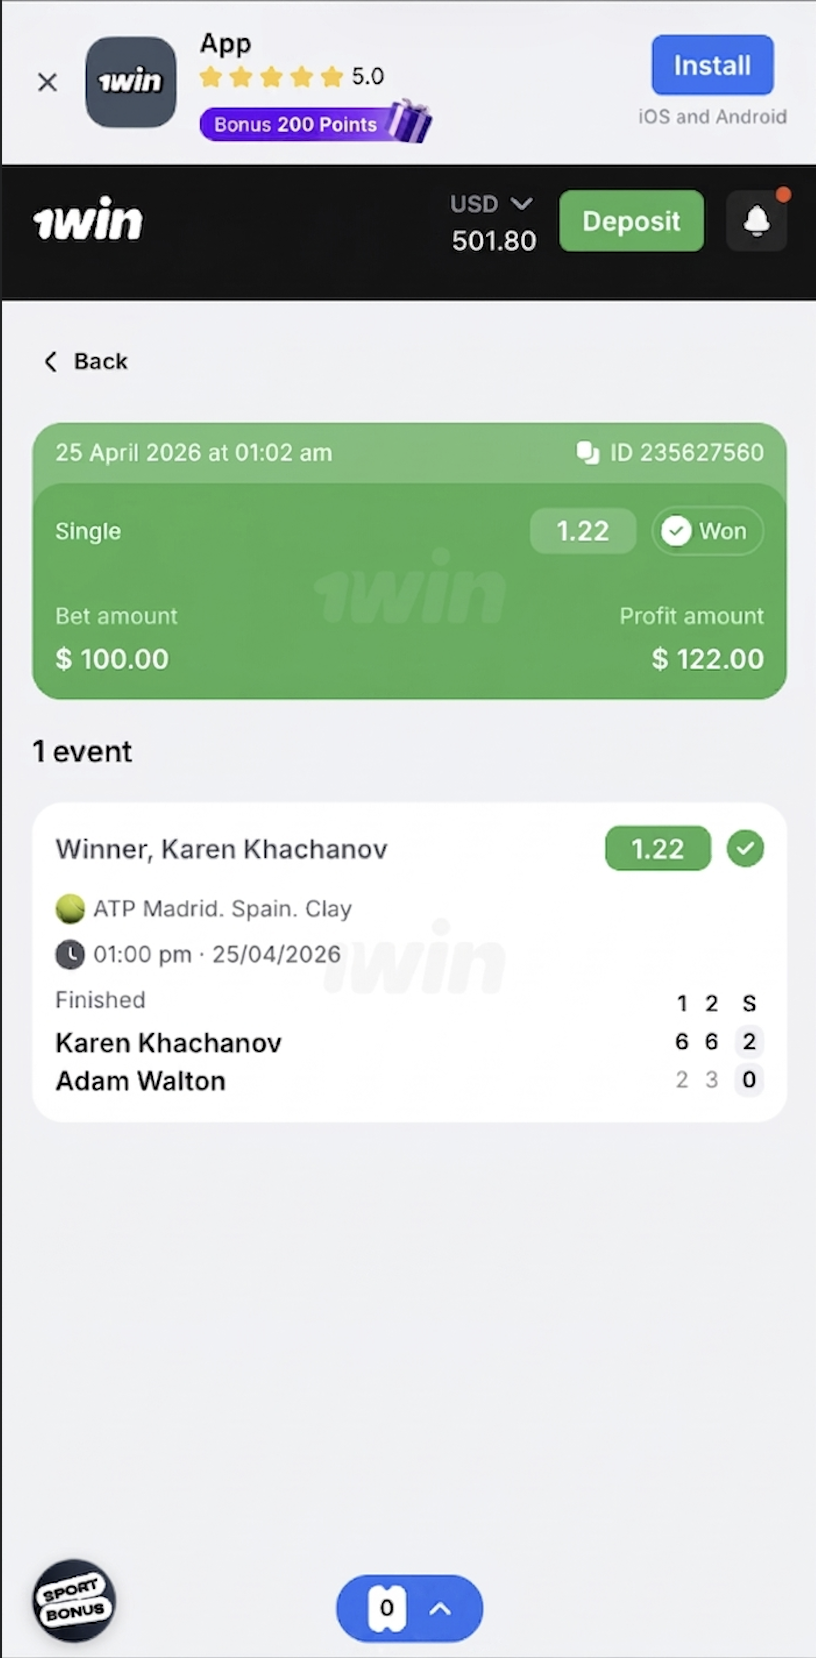
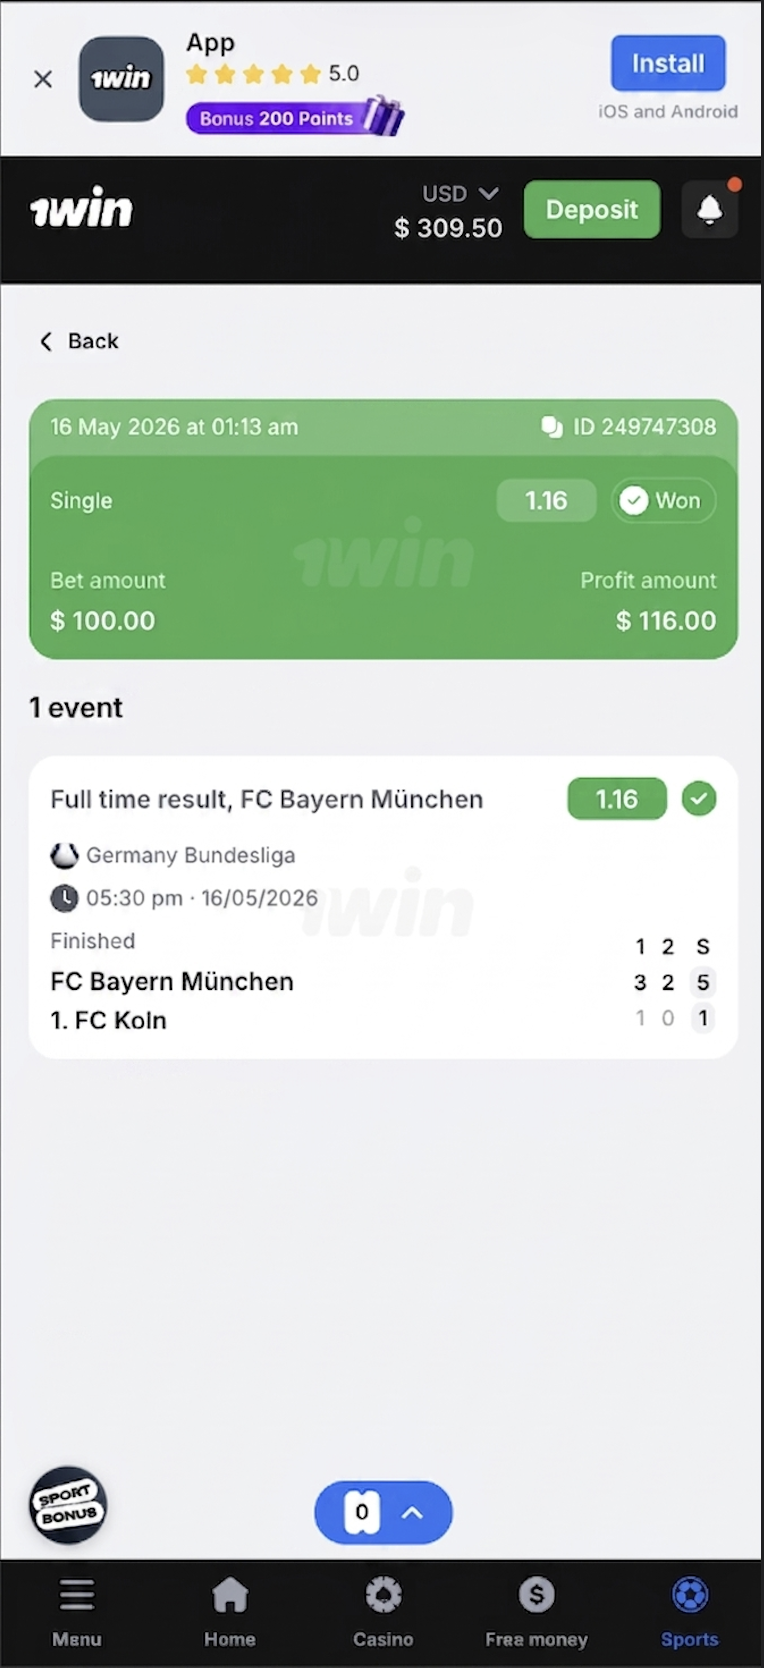
update

diff --git a/fortunobet/FortunoBetBot.py b/fortunobet/FortunoBetBot.py
@@ -42,26 +42,26 @@ scheduler = BlockingScheduler()
 # 22:00 — Final Bonus (HYPE)
 
 posts =[
-{"date":"2026-05-11","time":"12:00","content":"🎾 <b>$100 → $126.00. Felix Auger-Aliassime ✅</b>\n\nATP Madrid. Spain. Clay. Odds 1.26. 🇪🇸\n$26 profit. Auger-Aliassime 6-3, 6-4. Dominated. 💸\n\nRanked higher. Recent form strong. Data was clear.\nMy guy — pure analysis, not luck. They followed. Already paid. ✅\n\nYou dey watch while others dey collect? STOP WATCHING. 🔥\n\nDeposit ₦3,000 → play with ₦18,000\n🔑 Code: <code>fortunobet</code>\n👉 <b>Join NOW:</b> https://1wzpdo.life/v3/aggressive-casino?p=zusb","images":["win1.png"]},
-{"date":"2026-05-11","time":"23:55","content":"💸 <b>₦73,000 PalmPay — Arrived instant ✅</b>\n\nMonday 11 May. 05:00 AM. Real phone notification. 💚\n₦73,000 (~$50). ID: PPW-[phone redacted]. Same minute.\n\nBryan tested small first. Then scaled up big.\nNo delay. No wahala. My guy — just pure money. 💸\n\n1WIN pays. PalmPay confirms. Every single time. ✅\nYou can't withdraw what you don't deposit. ACT NOW. 🔥\n\nDeposit ₦5,000 → play with ₦30,000\n🔑 Code: <code>fortunobet</code>\n👉 <b>Start NOW:</b> https://1wzpdo.life/v3/aggressive-casino?p=zusb","images":["withdrow1.png"]},
+{"date":"2026-05-18","time":"16:00","content":"⚽ <b>$100 → $116.00. FC Bayern München ✅</b>\n\nGermany Bundesliga. Odds 1.16. 🇩🇪\n$16 profit. Bayern vs FC Koln. Completely dominant. 💸\n\nBayern top of league. Form was obvious. Easy read.\nMy guy — pure analysis, not luck. Already paid. ✅\n\nYou dey watch while others dey collect? STOP WATCHING. 🔥\n\nDeposit ₦3,000 → play with ₦18,000\n🔑 Code: <code>fortunobet</code>\n👉 <b>Join NOW:</b> https://1wzpdo.life/v3/aggressive-casino?p=zusb","images":["win3.png"]},
+{"date":"2026-05-18","time":"23:55","content":"💸 <b>₦150,000 PalmPay — Arrived instant ✅</b>\n\nMonday 18 May. 05:12 AM. Real phone notification. 💚\n₦150,000 (~$100). ID: PPW-[phone redacted]. Same minute.\n\nBryan tested small first. Then scaled up big.\nNo delay. No wahala. My guy — just pure money. 💸\n\n1WIN pays. PalmPay confirms. Every single time. ✅\n\nYou can't withdraw what you don't deposit. 🔥\n\nDeposit ₦5,000 → play with ₦30,000\n🔑 Code: <code>fortunobet</code>\n👉 <b>Start NOW:</b> https://1wzpdo.life/v3/aggressive-casino?p=zusb","images":["withdrow.png"]},
 
-{"date":"2026-05-12","time":"16:00","content":"💡 <b>How to withdraw to PalmPay — step by step</b>\n\nMy guy, here is exactly how money arrives in 3-5 minutes.\n\nStep 1: Go to 1WIN wallet. Click Withdraw.\nStep 2: Select PalmPay. Enter your number.\nStep 3: Enter amount. Confirm payment.\nStep 4: Check PalmPay. Money arrives instant. 💸\n\nChale — test small first. Smart bettors don't rush. 🙏\nScared people watch. Smart people ACT NOW. 🔥\n\nDeposit ₦3,000 → play with ₦18,000\n🔑 Code: <code>fortunobet</code>\n👉 <b>Start here:</b> https://1wzpdo.life/v3/aggressive-casino?p=zusb","images":["EDUCATIONPOST.png"]},
-# {"date":"2026-05-12","time":"23:55","content":"🌐 <b>FortunoBet.com — Where Smart Bettors Win!</b>\n\n1WIN. Sports. Casino. Live games. All partners. 💰\nData-based. Transparent. Real results every week. ✅\n\n₦73,000 paid Monday. Real PalmPay proof. Not story.\nChale — join the winning community. Smart bettors here.\n\nThey don enter already. You still dey outside?? 🔥\n\nDeposit ₦10,000 → play with ₦60,000\n🔑 Code: <code>fortunobet</code>\n👉 <b>Join community:</b> https://fortunobet.com\n👉 <b>Start here:</b> https://1wzpdo.life/v3/aggressive-casino?p=zusb","images":["FortunoBet.png"]},
+{"date":"2026-05-19","time":"16:00","content":"💡 <b>How to use your 600% bonus correctly</b>\n\nMy guy, most people waste their bonus. Here is how smart bettors use it.\n\nStep 1: Register FREE → code FORTUNOBET\nStep 2: Deposit ₦3,000 → get ₦18,000 to play with\nStep 3: Place small bets only. Don't rush. 🙏\nStep 4: Withdraw profits to PalmPay. Same day. 💸\n\nChale — test small first. Smart bettors don't rush.\nFollow for more → FortunoBet.com\n\nDeposit ₦3,000 → play with ₦18,000\n🔑 Code: <code>fortunobet</code>\n👉 <b>Start here:</b> https://1wzpdo.life/v3/aggressive-casino?p=zusb","images":["bonus2.jpeg"]},
+{"date":"2026-05-19","time":"23:55","content":"🌐 <b>FortunoBet.com — Where Smart Bettors Win!</b>\n\n1WIN. Sports. Casino. Live games. All partners. 💰\nData-based. Transparent. Real results every week. ✅\n\n₦150,000 paid Monday. Real PalmPay proof. Not story.\nChale — join the winning community. Smart bettors here.\n\nThey don enter already. You still dey outside?? 🔥\n\nDeposit ₦10,000 → play with ₦60,000\n🔑 Code: <code>fortunobet</code>\n👉 <b>Join community:</b> https://fortunobet.com\n👉 <b>Start here:</b> https://1wzpdo.life/v3/aggressive-casino?p=zusb","images":["bonus7.jpeg"]},
 
-{"date":"2026-05-13","time":"12:00","content":"⚽ <b>$80 → $152.80. Manchester United ✅</b>\n\nEngland Premier League. Odds 1.91. 🏴\n$72.80 profit. Man United vs Brentford. Dominant. 💸\n\nMan United strong home form. Data was clear. Easy read.\nMon ✅ Tue ✅ Wed ✅ Pattern is real. No luck involved.\n\nSmart players follow. Scared ones watch forever. 🔥\n\nDeposit ₦5,000 → play with ₦30,000\n🔑 Code: <code>fortunobet</code>\n👉 <b>Join NOW:</b> https://1wzpdo.life/v3/aggressive-casino?p=zusb","images":["win2.png"]},
-{"date":"2026-05-13","time":"23:55","content":"⚠️ <b>600% Bonus — EXPIRES TONIGHT! ❌</b>\n\nRegistered Monday? Expires Wednesday 11:59 PM. NOW.\nRegistered Tuesday? Expires Thursday 11:59 PM. ⏰\n\n600% NOT lifetime. Gone in hours. Not days. HOURS.\nChale — after deadline: ❌ Gone forever. No second chance.\n\nNo dulling. Deposit NOW or lose it forever. 🔥\n\nDeposit ₦5,000 → play with ₦35,000\n🔑 Code: <code>fortunobet</code>\n👉 <b>NOW:</b> https://1wzpdo.life/v3/aggressive-casino?p=zusb","images":["casion1.jpeg"]},
+{"date":"2026-05-20","time":"12:00","content":"🎾 <b>$150 → $193.50. Barrientos/Behar ✅</b>\n\nATP Challenger Doubles. Valencia. Spain. Clay. Odds 1.29. 🇪🇸\n$43.50 profit. Barrientos/Behar won 6-0, 6-7, 6-1. 💸\n\nStronger pair. H2H record was clear. Pure analysis.\nMon ✅ Tue ✅ Wed ✅ Pattern is real, my guy.\n\nSmart players follow. Scared ones watch forever. 🔥\n\nDeposit ₦5,000 → play with ₦30,000\n🔑 Code: <code>fortunobet</code>\n👉 <b>Join NOW:</b> https://1wzpdo.life/v3/aggressive-casino?p=zusb","images":["win2.png"]},
+{"date":"2026-05-20","time":"23:55","content":"⚠️ <b>600% Bonus — EXPIRES TONIGHT! ❌</b>\n\nRegistered Monday? Expires Wednesday 11:59 PM. NOW.\nRegistered Tuesday? Expires Thursday 11:59 PM. ⏰\n\n600% NOT lifetime. Gone in hours. Not days. HOURS.\nChale — after deadline: ❌ Gone forever. No second chance.\n\nNo dulling. Deposit NOW or lose it forever. 🔥\n\nDeposit ₦5,000 → play with ₦35,000\n🔑 Code: <code>fortunobet</code>\n👉 <b>NOW:</b> https://1wzpdo.life/v3/aggressive-casino?p=zusb","images":["bonus1.jpeg"]},
 
-{"date":"2026-05-14","time":"16:00","content":"📊 <b>Why FortunoBet community wins more than solo bettors</b>\n\nChale, solo bettors lose because they guess alone.\nFortunoBet community does it different. 💡\n\n✅ Expert picks shared daily — no guessing\n✅ Real withdrawal proofs every week — no fake\n✅ Thousands winning together — not alone\n\nMy guy — join the system, not just a bet.\nStill betting solo? No dulling — move NOW. 🔥\n\nDeposit ₦3,000 → play with ₦18,000\n🔑 Code: <code>fortunobet</code>\n👉 <b>Join us:</b> https://1wzpdo.life/v3/aggressive-casino?p=zusb","images":["AUTHORITYPOST.png"]},
-{"date":"2026-05-14","time":"23:55","content":"💚 <b>₦3,000 test → ₦9,100 withdrawal ✅</b>\n\nReal story. This week. Tunde, Lagos.\n\nDeposited ₦3,000 Monday — just to test the system.\nBet Premier League Tuesday. Form was obvious. Won ₦6,100.\nWithdrew ₦9,100 Thursday. PalmPay. 4 minutes. 💸\n\n\"I tested small first. Chale — now I trust 1WIN.\" 🔥\nIf Tunde can do it — my guy, you can too. ACT NOW.\n\nDeposit ₦3,000 → play with ₦18,000\n🔑 Code: <code>fortunobet</code>\n👉 <b>Test it:</b> https://1wzpdo.life/v3/aggressive-casino?p=zusb","images":["SUCCESSSTORY.png"]},
+{"date":"2026-05-21","time":"16:00","content":"📊 <b>3 mistakes Nigerian bettors make every week</b>\n\nChale, I see this every week. Don't be this person.\n\n❌ Mistake 1: Betting too much on one match — no bankroll control\n❌ Mistake 2: Following random channels — no real analysis\n❌ Mistake 3: Chasing losses — emotion beats data every time\n\nFortunoBet community does it different:\n✅ We test small. We use data. We withdraw consistently.\n\nMy guy — join the system, not just a bet. 🔥\n\n👉 <b>See full system:</b> https://fortunobet.com\n👉 <b>Start here:</b> https://1wzpdo.life/v3/aggressive-casino?p=zusb","images":["bonus4.jpeg"]},
+{"date":"2026-05-21","time":"23:55","content":"💚 <b>₦2,500 test → ₦8,200 withdrawal ✅</b>\n\nReal story. This week. Emeka, Lagos.\n\nDeposited ₦2,500 Monday — just to test the system.\nBet Bundesliga Tuesday. Form was obvious. Won ₦5,700.\nWithdrew ₦8,200 Thursday. PalmPay. 4 minutes. 💸\n\n\"I tested small first. Chale — now I trust 1WIN.\" 🔥\nIf Emeka can do it — my guy, you can too.\n\nDeposit ₦2,500 → play with ₦15,000\n🔑 Code: <code>fortunobet</code>\n👉 <b>Test it:</b> https://1wzpdo.life/v3/aggressive-casino?p=zusb","images":["bonus3.jpeg"]},
 
-{"date":"2026-05-15","time":"12:00","content":"🎾 <b>$100 → $122.00. Karen Khachanov ✅</b>\n\nATP Madrid. Spain. Clay. Odds 1.22. 🇪🇸\n$22 profit. Khachanov 6-2, 6-3. Dominated. 💸\n\nRanked higher. H2H record was clear. Pure analysis.\nMon ✅ Wed ✅ Fri ✅ Three wins. Pure analysis, my guy.\n\nSTOP WATCHING. They collecting. You still looking. 🔥\n\nDeposit ₦5,000 → play with ₦30,000\n🔑 Code: <code>fortunobet</code>\n👉 <b>Join NOW:</b> https://1wzpdo.life/v3/aggressive-casino?p=zusb","images":["win3.png"]},
-{"date":"2026-05-15","time":"23:55","content":"⚠️ <b>Bonus expires TOMORROW midnight! ❌</b>\n\nRegistered this week? Your 600% dies TOMORROW. ⏰\nAfter midnight: ❌ Gone. Forever. No exceptions.\n\nOne deposit activates EVERYTHING right now.\nPalmPay. Opay. Zero fees. Arrives same minute. ✅\n\nNo dulling my guy — last chance. Deposit NOW. 🔥\n\nDeposit ₦5,000 → play with ₦35,000\n🔑 Code: <code>fortunobet</code>\n👉 <b>NOW:</b> https://1wzpdo.life/v3/aggressive-casino?p=zusb","images":["casino2.jpeg"]},
+{"date":"2026-05-22","time":"12:00","content":"🎮 <b>$150 → $205.50. Team Spirit ✅</b>\n\nPGL Astana. CS2 Esports. Odds 1.37. 🏆\n$55.50 profit. Team Spirit vs MOUZ. Dominant win. 💸\n\nTeam Spirit stronger form. Data was clear. Easy read.\nMon ✅ Wed ✅ Fri ✅ Three wins. Pure analysis, my guy.\n\nSTOP WATCHING. They collecting. You still looking. 🔥\n\nDeposit ₦5,000 → play with ₦30,000\n🔑 Code: <code>fortunobet</code>\n👉 <b>Join NOW:</b> https://1wzpdo.life/v3/aggressive-casino?p=zusb","images":["win1.png"]},
+{"date":"2026-05-22","time":"23:55","content":"⭐ <b>FREE PICK — This Weekend</b>\n\nFC Barcelona vs Villarreal. La Liga. Saturday. 🇪🇸\n\nOur analysis:\n✅ Barcelona strong home form: 5 wins in last 5\n✅ Villarreal away record weak: 1 win in last 8 away\n✅ Barcelona top motivation — title race\n\nOur lean: Barcelona to win. Odds around 1.40-1.50\n\nSmall stake only. Smart bankroll always. 🙏\nFollow for more free picks → FortunoBet.com","images":["bonus5.jpeg"]},
 
-{"date":"2026-05-16","time":"16:00","content":"🌐 <b>FortunoBet.com — This week results inside! ✅</b>\n\n3 wins. 2 withdrawals. All verified. All real. 💸\n₦73,000 + ₦114,646 — Both PalmPay. Both instant.\n\nSports. Casino. All partners. One platform. No wahala.\nChale — no hidden fees. Real payouts. Every time. 💰\n\nSmart bettors manage bankroll. Only bet what you can afford. 🙏\n\n👉 <b>Join community:</b> https://fortunobet.com\n👉 <b>Start here:</b> https://1wzpdo.life/v3/aggressive-casino?p=zusb","images":["FortunoBet.png"]},
-{"date":"2026-05-16","time":"21:00","content":"💸 <b>₦114,646 PalmPay — Arrived Wednesday ✅</b>\n\nWednesday 13 May. 01:32 PM. Real phone notification. 💚\n₦114,646 (~$80). ID: PPW-[phone redacted]. Same minute.\n\nBryan withdrew Wednesday afternoon. No delay. No wahala.\nMy guy — this is what consistent betting looks like. 💸\n\n1WIN pays every time. PalmPay confirms every time. ✅\nYou can't collect what you never deposited. 🔥\n\nDeposit ₦5,000 → play with ₦30,000\n🔑 Code: <code>fortunobet</code>\n👉 <b>Start:</b> https://1wzpdo.life/v3/aggressive-casino?p=zusb","images":["withdorw2.png"]},
+{"date":"2026-05-23","time":"16:00","content":"🌐 <b>FortunoBet.com — This week results inside! ✅</b>\n\n3 wins. 2 withdrawals. All verified. All real. 💸\n₦150,000 + ₦165,000 — Both PalmPay. Both instant.\n\nSports. Casino. All partners. One platform. No wahala.\nChale — no hidden fees. Real payouts. Every time. 💰\n\nSmart bettors manage bankroll. Only bet what you can afford. 🙏\n\n👉 <b>Join community:</b> https://fortunobet.com\n👉 <b>Start here:</b> https://1wzpdo.life/v3/aggressive-casino?p=zusb","images":["bonus6.jpeg"]},
+{"date":"2026-05-23","time":"21:00","content":"💸 <b>₦165,000 PalmPay — Arrived Wednesday ✅</b>\n\nWednesday 20 May. 12:43 PM. Real phone notification. 💚\n₦165,000 (~$110). ID: PPW-[phone redacted]. Same minute.\n\nBryan withdrew Wednesday afternoon. No delay. No wahala.\nMy guy — this is what consistent betting looks like. 💸\n\n1WIN pays every time. PalmPay confirms every time. ✅\nYou can't collect what you never deposited. 🔥\n\nDeposit ₦5,000 → play with ₦30,000\n🔑 Code: <code>fortunobet</code>\n👉 <b>Start:</b> https://1wzpdo.life/v3/aggressive-casino?p=zusb","images":["withdrow2.png"]},
 
-{"date":"2026-05-17","time":"16:00","content":"💚 <b>This week. Real results. Full transparency. ✅</b>\n\nMon: $100 → $126.00 ✅ Auger-Aliassime — ranked higher.\nWed: $80 → $152.80 ✅ Man United — strong home form.\nFri: $100 → $122.00 ✅ Khachanov — H2H was clear.\n\nROI this week: +33% 📊\n₦73,000 + ₦114,646 = Both PalmPay instant. 💸\n\nTest small first. Smart bettors don't rush. 🙏\nThey won this week. Next week YOU start. 🔥\n\nDeposit ₦10,000 → play with ₦60,000\n🔑 Code: <code>fortunobet</code>\n👉 <b>NOW:</b> https://1wzpdo.life/v3/aggressive-casino?p=zusb","images":["withdrow1.png","withdorw2.png"]},
-# {"date":"2026-05-17","time":"23:55","content":"🎰 <b>500% Bonus — LAST CHANCE TONIGHT! ❌</b>\n\n1WIN Casino. Top slots. Live dealers. 💰\nDeposit ₦5,000 → play with ₦30,000 + 500 spins.\n\nPalmPay. Opay. Zero fees. Withdraw tonight. ✅\nWeek closes MIDNIGHT. Bonus gone after. No second chance.\n\nWe test. We withdraw. We scale. Join us NOW or miss it. 🔥\n\nDeposit ₦5,000 → play with ₦30,000\n🔑 Code: <code>fortunobet</code>\n👉 <b>Play NOW:</b> https://1wzpdo.life/v3/aggressive-casino?p=zusb","images":["casino3.jpeg"]},
+{"date":"2026-05-24","time":"16:00","content":"💚 <b>This week. Real results. Full transparency. ✅</b>\n\nMon: $100 → $116.00 ✅ Bayern Munich — top of league.\nWed: $150 → $193.50 ✅ Barrientos/Behar — H2H clear.\nFri: $150 → $205.50 ✅ Team Spirit — stronger form.\n\nROI this week: +35% 📊\n₦150,000 + ₦165,000 = Both PalmPay instant. 💸\n\nTest small first. Smart bettors don't rush. 🙏\nThey won this week. Next week YOU start. 🔥\n\nDeposit ₦10,000 → play with ₦60,000\n🔑 Code: <code>fortunobet</code>\n👉 <b>NOW:</b> https://1wzpdo.life/v3/aggressive-casino?p=zusb","images":["withdrow.png","withdrow2.png"]},
+{"date":"2026-05-24","time":"23:55","content":"🎰 <b>500% Bonus — LAST CHANCE TONIGHT! ❌</b>\n\n1WIN Casino. Top slots. Live dealers. 💰\nDeposit ₦5,000 → play with ₦30,000 + 500 spins.\n\nPalmPay. Opay. Zero fees. Withdraw tonight. ✅\nWeek closes MIDNIGHT. Bonus gone after. No second chance.\n\nWe test. We withdraw. We scale. Join us NOW or miss it. 🔥\n\nDeposit ₦5,000 → play with ₦30,000\n🔑 Code: <code>fortunobet</code>\n👉 <b>Play NOW:</b> https://1wzpdo.life/v3/aggressive-casino?p=zusb","images":["bonus8.jpeg"]}
 ]
 
 